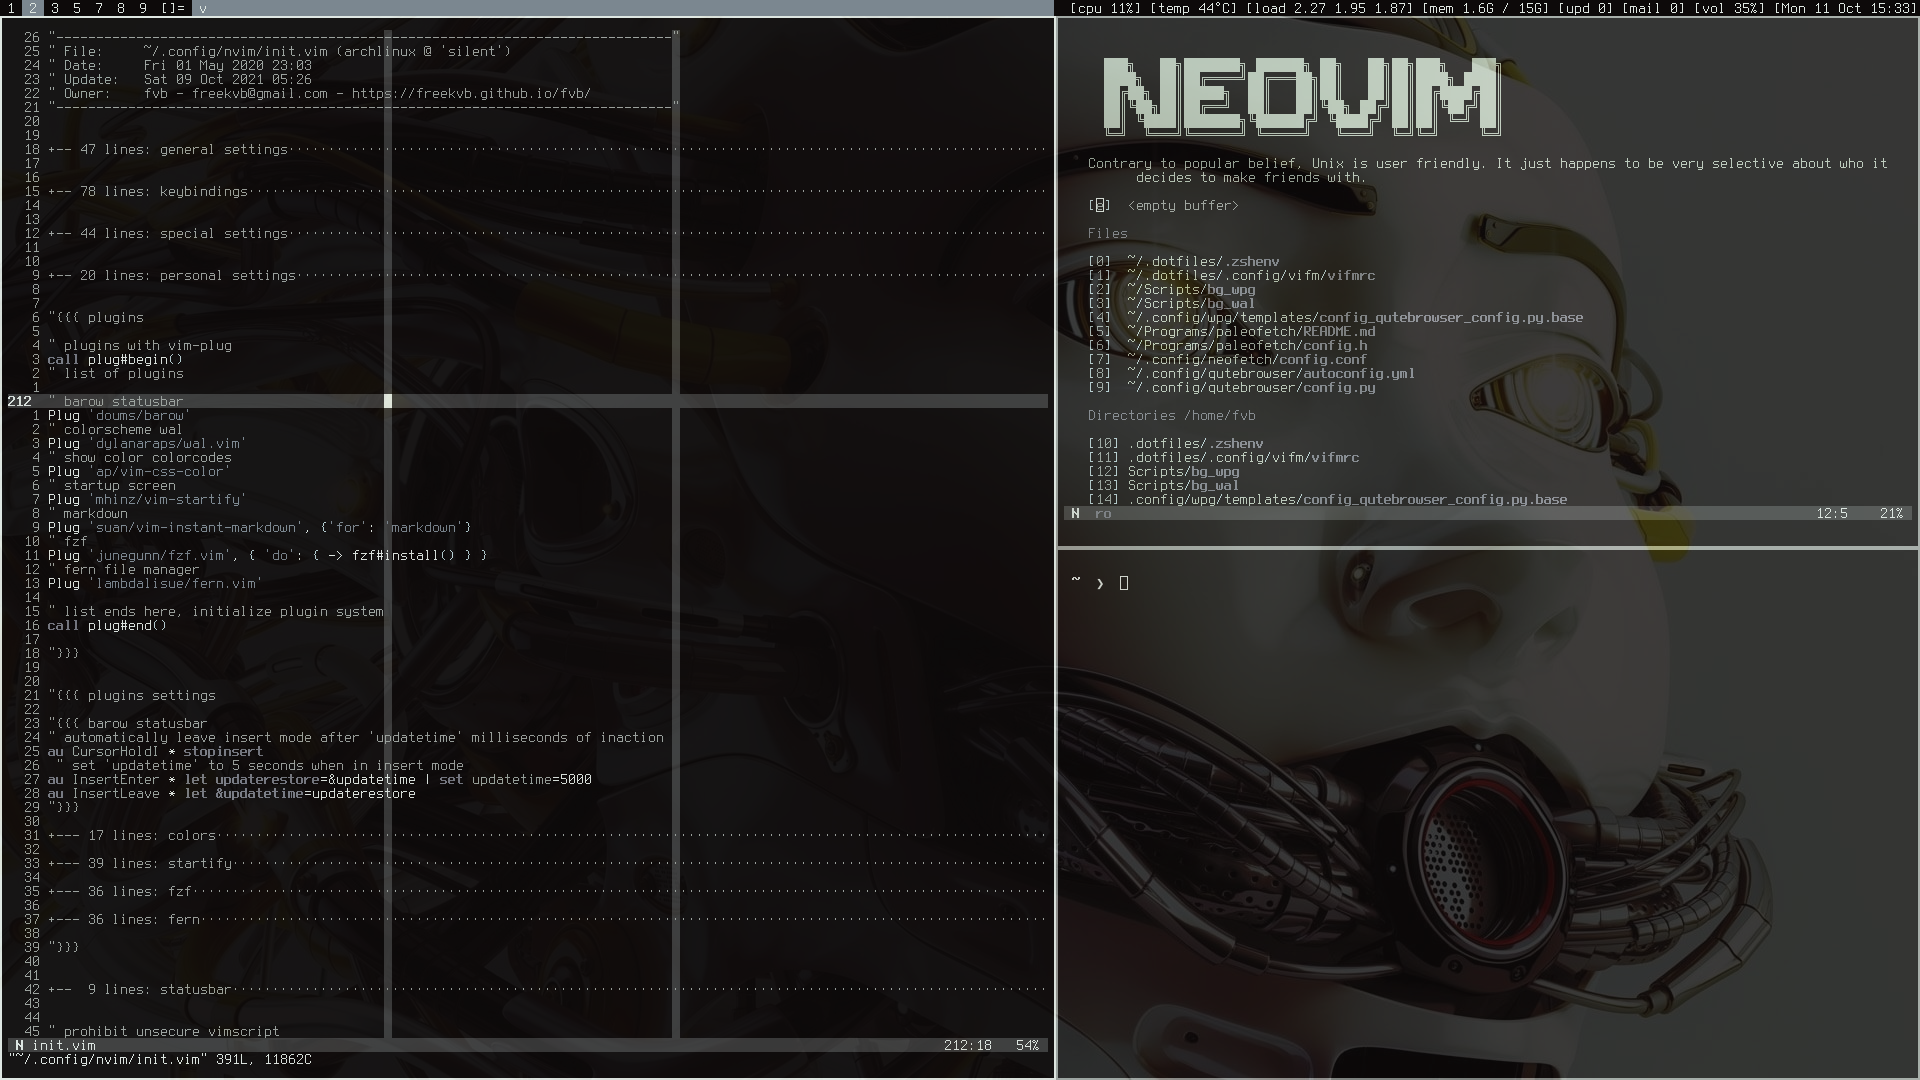
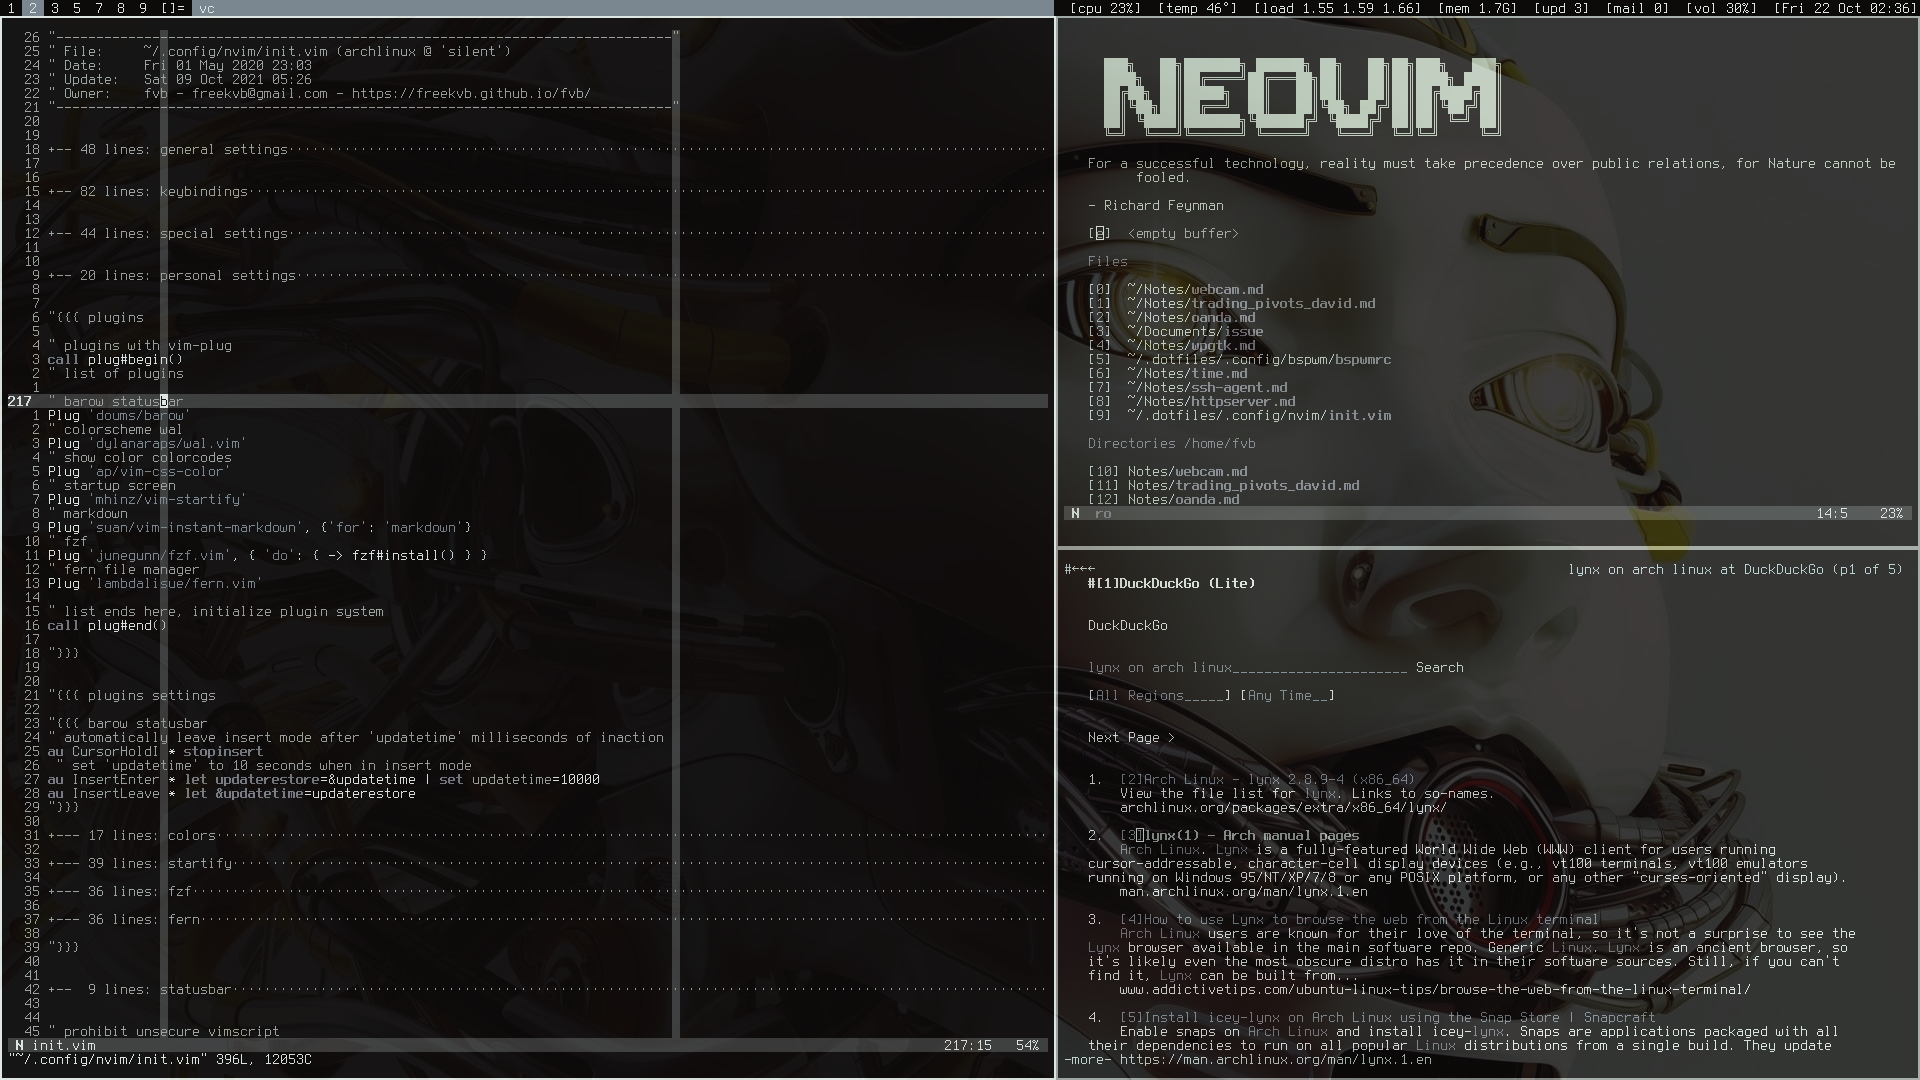
lynx

diff --git a/screenshots_dwm.html b/screenshots_dwm.html
@@ -43,7 +43,7 @@
                src="dwm/silent_dwm_0-thumb.png"></a><br>
             <br>
             <br>
-            <small>neovim and a terminal</small><br>
+            <small>neovim and lynx</small><br>
             <br>
             <a href="dwm/silent_dwm_5.png"><img src="dwm/silent_dwm_5-thumb.png"></a><br>
             <br>
